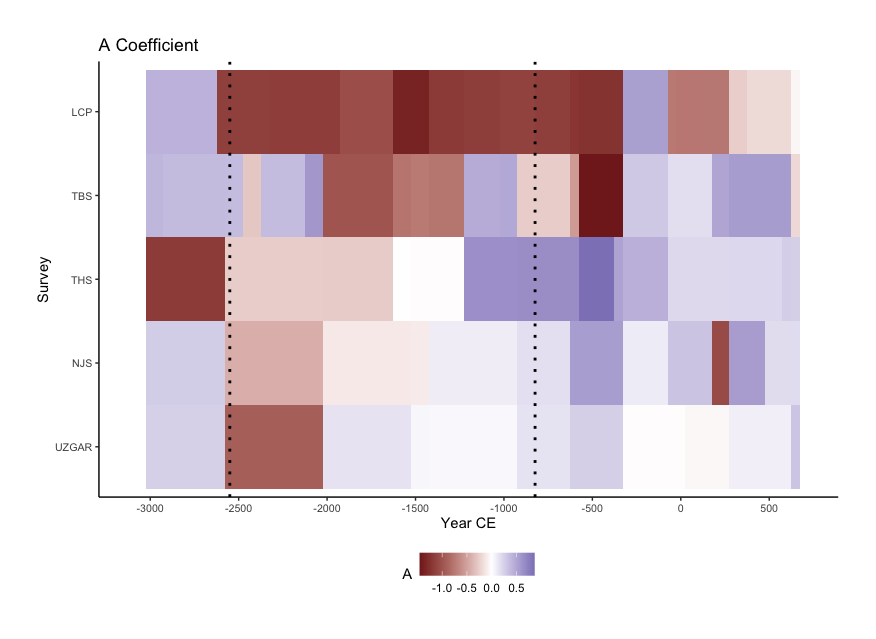
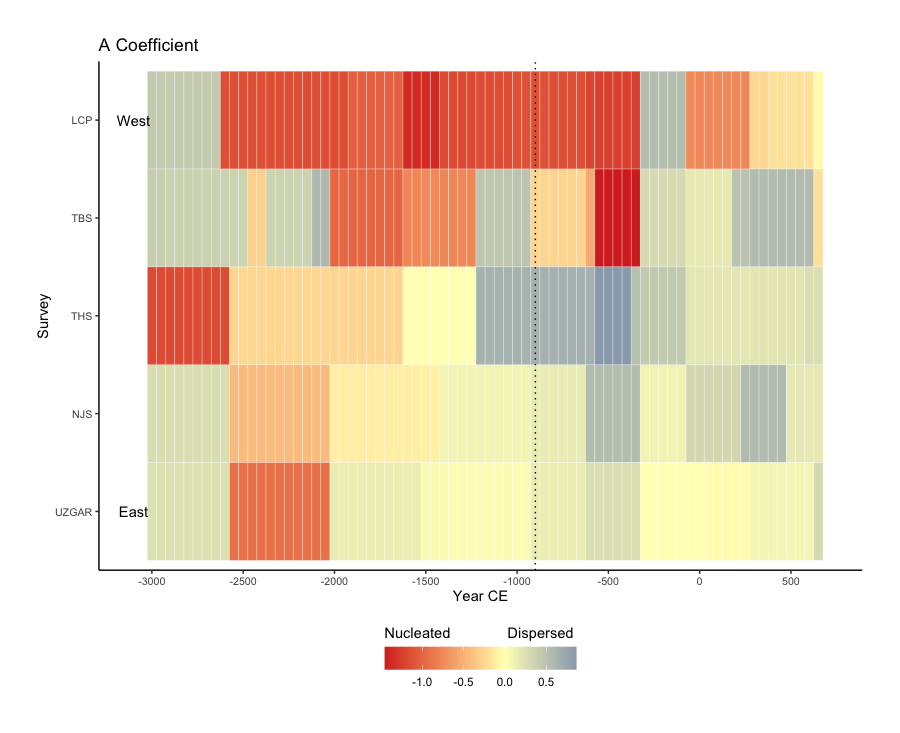
commit

diff --git a/index.html b/index.html
@@ -37,28 +37,6 @@
   <link href="index_files/libs/revealjs/plugin/reveal-menu/quarto-menu.css" rel="stylesheet">
   <link href="index_files/libs/revealjs/plugin/quarto-support/footer.css" rel="stylesheet">
   <style type="text/css">
-  
-  .slide {
-  font-size: 24pt;      /* size */
-}
-
-
-.reveal section h2 {
-  color: #72006c;
-  font-size: 50px;
-}
-
-#title-slide .title {
-text-align: center;
-color:  #72006c;
-  font-size: 40px
-}
-
-#title-slide .quarto-title-author {
-text-align: center;
-color: #464a53;
-  font-size: 30px;
-}
 
   .callout {
     margin-top: 1em;
@@ -378,13 +356,28 @@ Michal Michalski, Dan Lawrence
 <h2>Background</h2>
 
 <img data-src="figures/dispersal.png" class="r-stretch quarto-figure-center"></section>
+<section id="background-1" class="slide level2">
+<h2>Background</h2>
+<p>Explanatory frameworks proposed so far:</p>
+<ul>
+<li>shift from network to a territorial empire (Liverani, 1988)</li>
+<li>administrative restructuring and institutional colonisation (Wilkinson, 2000; T J Wilkinson et al., 2005)</li>
+<li>creation of a landscape of power (Morandi Bonacossi, 1996)</li>
+<li><em>agricultural colonisation</em> (Parker, 2001)</li>
+<li>change in land ownership (Casana, 2007)</li>
+<li><em>universalism</em> and population dynamics (Altaweel and Squitieri, 2018)</li>
+</ul>
+</section>
 <section id="objective" class="slide level2">
 <h2>Objective</h2>
-<p>The ultimate aim of my PhD research is to investigate emergence of <em>“landscape of dispersal”</em> across the region. In this presentation I will:</p>
-<ol type="1">
-<li><p>attempt to describe the <strong>pattern</strong> of change quantitatively using centralization indices.</p></li>
-<li><p>explore potential of Ideal Free Distribution models to understand the <strong>process.</strong></p></li>
-</ol>
+<p>My PhD research aims to provide metrics and quantify the emergence of <em>“landscape of dispersal”</em> across the Northern Fertile Crescent.</p>
+<p>I argue that timing, sequence and magnitude of the change is pertinent to correlate the transformation in landscape with empires.</p>
+<p>&nbsp;</p>
+<p>In this presentation I will:</p>
+<ul>
+<li><p>present Exploratory Data Analysis of the settlement <strong>pattern</strong> deploying quantitative metrics of centralization.</p></li>
+<li><p>apply Ideal Free Distribution model to understand the <strong>process</strong> behind the settlement pattern.</p></li>
+</ul>
 </section>
 <section id="chronology" class="slide level2">
 <h2>Chronology</h2>
@@ -392,14 +385,15 @@ Michal Michalski, Dan Lawrence
 <img data-src="figures/chronology.png" class="r-stretch quarto-figure-center"></section>
 <section id="study-area" class="slide level2">
 <h2>Study Area</h2>
+<p>East-West transect across Northern Mesopotamian plains.</p>
 
-<img data-src="figures/study_area.png" class="r-stretch quarto-figure-center"><p class="caption">Northern Mesopotamia</p></section>
+<img data-src="figures/study_area.png" class="r-stretch quarto-figure-center"><p class="caption">Northern Mesopotamia (n = 396 sites)</p></section>
 <section id="unit-of-analysis" class="slide level2">
 <h2>Unit of Analysis</h2>
 
 <img data-src="figures/units_of_analysis.png" class="r-stretch quarto-figure-center"><p class="caption">Sequence of Snapshots: <em>Si</em> represents settlement system state at particular time <em>Ti.</em></p></section>
-<section id="methods-settlement-patterns" class="slide level2">
-<h2>Methods: Settlement Patterns</h2>
+<section id="methods-settlement-system" class="slide level2">
+<h2>Methods: Settlement System</h2>
 
 <img data-src="figures/method_framework.png" class="r-stretch quarto-figure-center"></section>
 <section id="methods-aoristic-analysis" class="slide level2">
@@ -409,7 +403,7 @@ Michal Michalski, Dan Lawrence
 <section id="methods-rank-size-and-a-coefficient" class="slide level2">
 <h2>Methods: Rank-Size and A Coefficient</h2>
 
-<img data-src="figures/method_zipf.png" class="r-stretch quarto-figure-center"></section>
+<img data-src="figures/method_a_coefficent.png" class="r-stretch quarto-figure-center"></section>
 <section id="methods-centralization-and-b-coefficient" class="slide level2">
 <h2>Methods: Centralization and B Coefficient</h2>
 
@@ -437,27 +431,23 @@ Michal Michalski, Dan Lawrence
 <section id="example-njs-at-2550-bce-1" class="slide level2">
 <h2>Example: NJS at 2550 BCE</h2>
 
-<img data-src="figures/njs/centr_plot_2550BCE.png" class="r-stretch"></section>
+<img data-src="figures/njs/njs_cntr_plot2550BCE.png" class="r-stretch"></section>
 <section id="example-njs-at-900-bce-1" class="slide level2">
 <h2>Example: NJS at 900 BCE</h2>
 
-<img data-src="figures/njs/centrplot_900BCE.png" class="r-stretch"></section>
-<section id="results-aoristic-analysis" class="slide level2">
-<h2>Results: Aoristic Analysis</h2>
-
-<img data-src="figures/aoristic_count.png" class="r-stretch quarto-figure-center"></section>
+<img data-src="figures/njs/njs_cntr_plot900BCE.png" class="r-stretch"></section>
 <section id="results-site-density" class="slide level2">
 <h2>Results: Site Density</h2>
 
-<img data-src="figures/density.png" class="r-stretch quarto-figure-center"></section>
+<img data-src="figures/site_density.png" class="r-stretch quarto-figure-center"></section>
 <section id="results-density-cluster" class="slide level2">
 <h2>Results: Density Cluster</h2>
 
 <img data-src="figures/density_cluster.png" class="r-stretch quarto-figure-center"></section>
 <section id="results-a-coefficient" class="slide level2">
 <h2>Results: A coefficient</h2>
-
-<img data-src="figures/alpha.png" class="r-stretch quarto-figure-center"></section>
+<p><img data-src="figures/alpha.png">{fig-align=“center”, height = “50%”}</p>
+</section>
 <section id="results-a-coefficient-cluster" class="slide level2">
 <h2>Results: A coefficient Cluster</h2>
 
@@ -465,7 +455,7 @@ Michal Michalski, Dan Lawrence
 <section id="results-beta-coefficient" class="slide level2">
 <h2>Results: Beta coefficient</h2>
 
-<img data-src="figures/beta.png" class="r-stretch quarto-figure-center"></section>
+<img data-src="figures/beta.png" class="r-stretch quarto-figure-center"><p class="caption">*Modifiable areal unit problem</p></section>
 <section id="results-b-coefficient" class="slide level2">
 <h2>Results: B coefficient</h2>
 
@@ -473,43 +463,105 @@ Michal Michalski, Dan Lawrence
 <section id="methods-settlement-ecology" class="slide level2">
 <h2>Methods: Settlement Ecology</h2>
 <p><strong>Human Behavioral Ecology – Ideal Distribution Models</strong></p>
-<p>• <strong>Ideal Free Distribution</strong> (IFD) – makes assumption of unconstrained movement into habitats of highest suitability that will decline with rising population density.</p>
-<p>• <strong>Ideal Free Distribution with Allee effect (IFDA)</strong> – incentivize cooperation and investments in landscape (e.g.&nbsp;irrigation) to increase habitats suitability but in time population pressure is leading to degradation and habitat depletion .</p>
-<p>• <strong>Ideal Despotic Distribution (IDD)</strong> – the access to habitats of individuals is controlled by other settlers. <strong>IDD negative</strong> – despots defended access to high ranked habitats forcing settlers to occupy habitats with lower rank. <strong>IDD positive</strong> - despots allow to occupy their high ranked habitats in return for share in harvest (e.g.serfdom dynamics)</p>
+<p>The fundamental premise of the model is that individuals seek to maximize suitability such as subsistence yields.</p>
+<p>• Ideal Free Distribution (IFD)</p>
+<p>• Ideal Free Distribution with Allee effect (IFDA)</p>
+<p>• Ideal Despotic Distribution (IDD)</p>
+<p>&nbsp;</p>
+<p><strong>Question:</strong> Do the settlement patterns show properties predicted by the IFD model?</p>
 </section>
 <section id="methods-ifd" class="slide level2">
 <h2>Methods: IFD</h2>
 
-<img data-src="figures/method_ifd_free.png" class="r-stretch quarto-figure-center"></section>
+<img data-src="figures/method_ifd_free.png" class="r-stretch quarto-figure-center"><p>IFD makes assumption of unconstrained movement into habitats of highest suitability that will decline with rising population density.</p>
+</section>
 <section id="methods-ifda" class="slide level2">
 <h2>Methods: IFDA</h2>
 
-<img data-src="figures/method_ifd_allee.png" class="r-stretch quarto-figure-center"></section>
+<img data-src="figures/method_ifd_allee.png" class="r-stretch quarto-figure-center"><p>IFDA incentivize cooperation and investments in landscape to increase habitats suitability but in time population pressure is leading to degradation and habitat depletion .</p>
+</section>
 <section id="methods-idd" class="slide level2">
 <h2>Methods: IDD</h2>
 
-<img data-src="figures/method_ifd_despotic.png" class="r-stretch quarto-figure-center"></section>
-<section id="methods-suitability-index" class="slide level2">
-<h2>Methods: Suitability Index</h2>
+<img data-src="figures/method_ifd_despotic.png" class="r-stretch quarto-figure-center"><p>The access to habitats of individuals is controlled by other settlers. <strong>IDD negative</strong> – despots defended access to high ranked habitats forcing settlers to occupy habitats with lower rank. <strong>IDD positive</strong> - despots allow to occupy their high ranked habitats in return for share in harvest.</p>
+</section>
+<section id="suitability-index" class="slide level2">
+<h2>Suitability Index</h2>
 
-<img data-src="figures/method_suitability.png" class="r-stretch quarto-figure-center"><p class="caption">*Menze and Ur (2012) showed correlation between settlements volume / density and reiver size in Upper Khabur Basin.</p></section>
-<section id="results-model-prediction" class="slide level2">
-<h2>Results: Model Prediction</h2>
-<p>The first habitats settled will be the most suitable.</p>
+<img data-src="figures/method_suitability.png" class="r-stretch quarto-figure-center"><p class="caption">*Menze and Ur (2012) showed correlation between settlements volume / density and river size in Upper Khabur Basin.</p></section>
+<section id="model-predictions" class="slide level2">
+<h2>Model Predictions</h2>
+<p>IFD and IDD</p>
+<ul>
+<li><p>The first habitats settled will be the most suitable.</p></li>
+<li><p>The most suitable habitats will be occupied longest.</p></li>
+<li><p>The average suitability of a settlement pattern should decrease as sites increase in number.</p></li>
+</ul>
+<p>IDD</p>
+<ul>
+<li>The population density in IDD at the higher ranked habitats is lower than in the IFD (IDD vs IFD dynamics)</li>
+</ul>
+</section>
+<section id="results" class="slide level2">
+<h2>Results</h2>
+<ol type="1">
+<li>The first habitats settled will be the most suitable.</li>
+</ol>
 
-<img data-src="figures/suitability_over_time.png" class="r-stretch quarto-figure-center"></section>
-<section id="results-model-prediction-1" class="slide level2">
-<h2>Results: Model Prediction</h2>
-<p>The first habitats settled will be the most suitable.</p>
+<img data-src="figures/idf_suitability_over_time_50y.png" class="r-stretch quarto-figure-center"></section>
+<section id="results-1" class="slide level2">
+<h2>Results</h2>
+<ol start="2" type="1">
+<li>The most suitable habitats will be occupied longest.</li>
+</ol>
 
-<img data-src="figures/suitability_by_survey.png" class="r-stretch quarto-figure-center"></section>
-<section id="results-model-prediction-2" class="slide level2">
-<h2>Results: Model Prediction</h2>
-<p>The average suitability of a settlement pattern should decrease as sites increase in number.</p>
+<img data-src="figures/idf_persistance.png" class="r-stretch quarto-figure-center"></section>
+<section id="results-2" class="slide level2">
+<h2>Results</h2>
+<ol start="3" type="1">
+<li>The average suitability of a settlement pattern should decrease as sites increase in number.</li>
+</ol>
 
-<img data-src="figures/lm_site_count.png" class="r-stretch quarto-figure-center"></section>
-<section id="discussion" class="slide level2">
-<h2>Discussion</h2>
+<img data-src="figures/idf_suit_vs_site_number.png" class="r-stretch quarto-figure-center"></section>
+<section id="results-3" class="slide level2">
+<h2>Results</h2>
+<ol start="4" type="1">
+<li>The population density in IDD at the higher ranked habitats is lower than in the IFD (IDD vs IFD dynamics)</li>
+</ol>
+
+<img data-src="figures/ifd_vs_idd.png" class="r-stretch quarto-figure-center"><p class="caption">* not fully tested, requires further work</p></section>
+<section id="conclusions---same-old" class="slide level2">
+<h2>Conclusions - same old</h2>
+<ul>
+<li><p>settlements dispersion coincided with Middle Assyrian (1400BC) and Neo-Assyrian (900BC) expansions</p></li>
+<li><p>areas in proximity to Assyrian imperial core experience (NJS, THS) seen increase at higher rate comparing to more modest growth in western Khabur (TBS) and the eastern Navkūr plain (UZGAR)</p></li>
+<li><p>LCP area was dominated by site of Charchemish until population disperse in Hellenistic period (300BC)</p></li>
+</ul>
+</section>
+<section id="conclusions---same-new" class="slide level2">
+<h2>Conclusions - same new</h2>
+<ul>
+<li><p>results show a general conformity with IFD models</p></li>
+<li><p>settlement strategies seek to maximize agricultural input (as far as access to water is concerned)</p></li>
+<li><p>larger increase in settlement density accompanied by faster drop in suitability around 900 BC may IDD properties whereas more sustainable growth may indicate IFD distribution.</p></li>
+</ul>
+</section>
+<section id="further-work" class="slide level2">
+<h2>Further work</h2>
+<ul>
+<li><p>to integrate more legacy archaeological surveys</p></li>
+<li><p>to evaluate centralization metrics</p></li>
+<li><p>model Allee effect by integrating hydraulic infrastructure</p></li>
+<li><p>integrate more ecological and social variables</p></li>
+<li><p>operationalize distinction between various IDM variants</p></li>
+</ul>
+</section>
+<section id="thank-you" class="slide level2">
+<h2>Thank you</h2>
+<p>&nbsp;</p>
+<p>Michal Michalski</p>
+<p>michal.m.michalski@durham.ac.uk</p>
+<p><a href="https://github.com/topographos" class="uri">https://github.com/topographos</a></p>
 
 <img src="figures/logo-dark.png" class="slide-logo r-stretch"><div class="footer footer-default">
 
